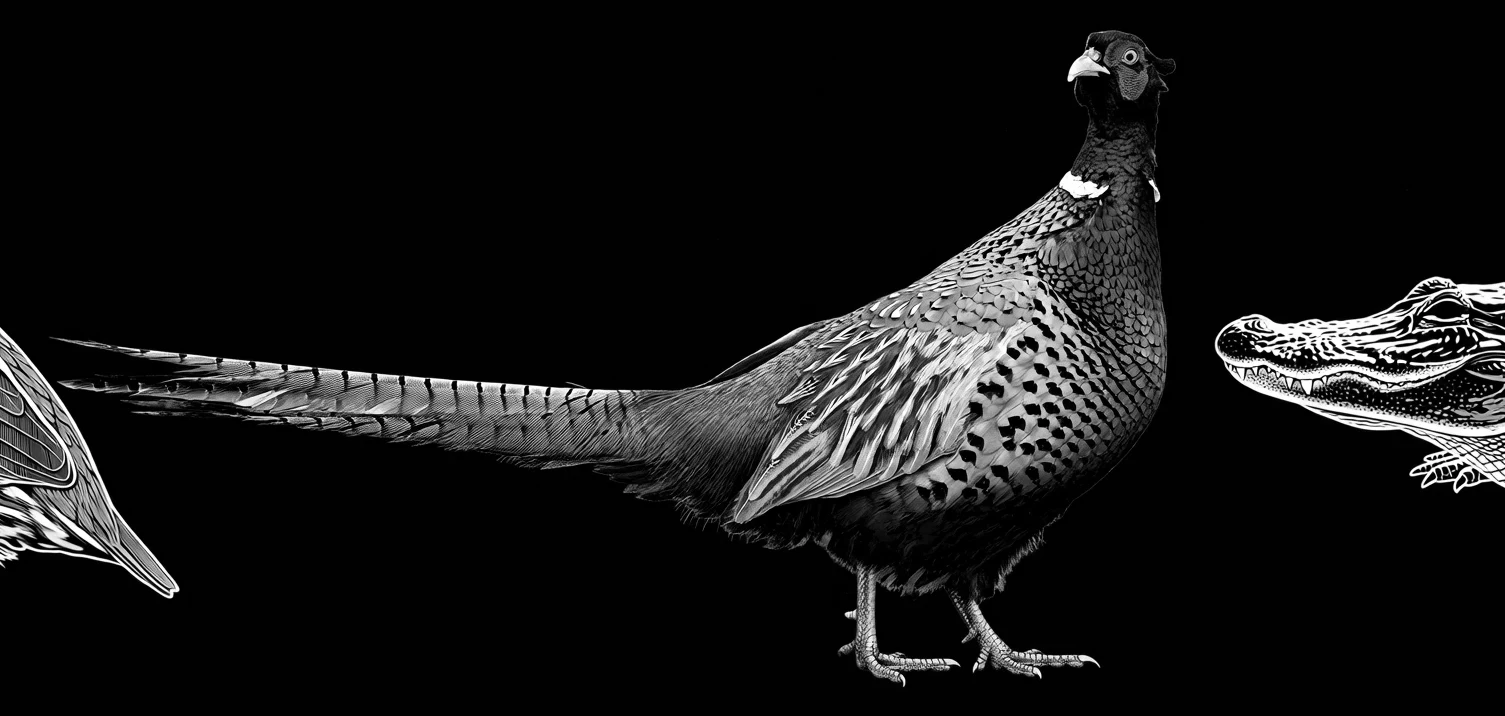
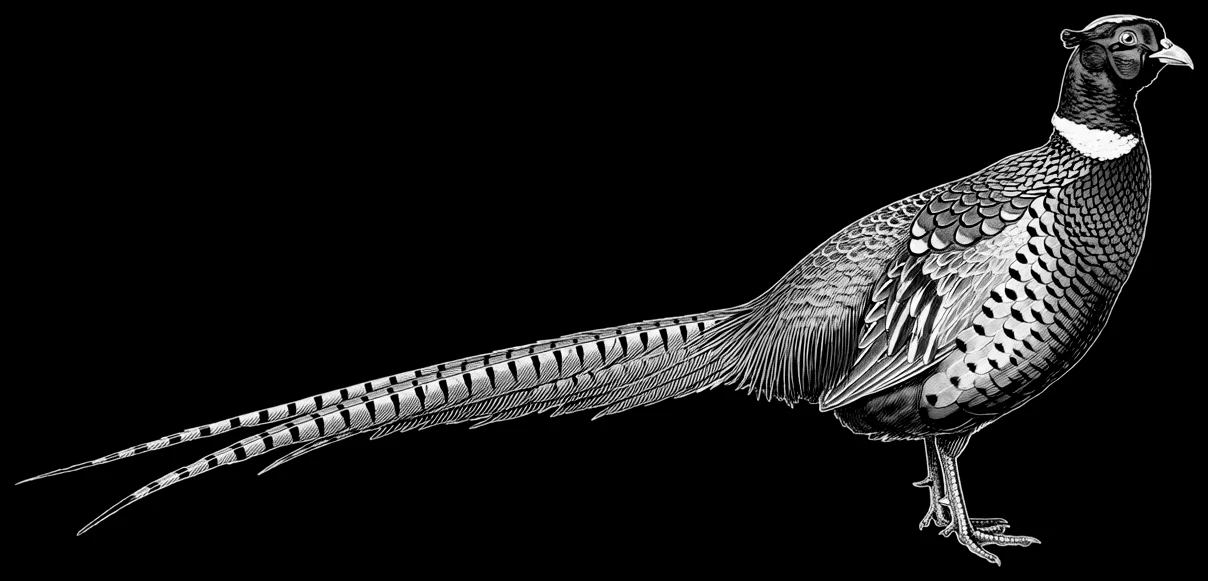
#64 + #65: modal scroll lock and border-box fix; head-first hero stencils for all targets, regenerated clean pheasant art, cleaned dove art, mirrored pheasant badge draw, badge stencil height cap — v0.6.1

diff --git a/src/main.ts b/src/main.ts
@@ -104,6 +104,18 @@ const STENCIL_BY_TARGET: Record<string, string> = {
   tarpon: "tarpon",
   walleye: "walleye",
 };
+// #65: the wide stencils (natural aspect at least 2.3). The stylesheet
+// sizes these down at the tablet tier so the fish sits inside the hero
+// with margin instead of spanning it edge to edge (see .hero-stencil
+// in styles.css). Keys are stencil file names, as in STENCIL_BY_TARGET.
+const WIDE_STENCILS = new Set([
+  "catfish",
+  "king-mackerel",
+  "rainbow-trout",
+  "striped-bass",
+  "tarpon",
+  "walleye",
+]);
 const stencilModules = import.meta.glob("./assets/stencils/stencil-*.webp", {
   eager: true,
   query: "?url",
@@ -445,6 +457,10 @@ const PROHIBIT_SVG = `<svg class="hero-prohibit" viewBox="0 0 100 100" aria-hidd
 function heroHtml(plan: DayPlan, key: string, target: TargetDef): string {
   const band = bandKey(plan);
   const stencil = plan.veto ? "" : stencilFor(target.id);
+  const stencilName = STENCIL_BY_TARGET[target.id] ?? "";
+  // #65: mark the wide stencils so the stylesheet can size them down
+  // at the tablet tier (see WIDE_STENCILS above).
+  const stencilWide = WIDE_STENCILS.has(stencilName) ? "1" : "0";
   const pill = plan.veto
     ? `<span class="hero-pill">⦻ ${esc(plan.veto)}</span>`
     : plan.slots.length
@@ -452,7 +468,7 @@ function heroHtml(plan: DayPlan, key: string, target: TargetDef): string {
       : `<span class="hero-pill">No window rated Okay or better</span>`;
   return `
   <section class="hero hero-${band}">
-    ${plan.veto ? PROHIBIT_SVG : stencil ? `<img class="hero-stencil" data-stencil="${esc(STENCIL_BY_TARGET[target.id] ?? "")}" src="${stencil}" alt="" aria-hidden="true" />` : ""}
+    ${plan.veto ? PROHIBIT_SVG : stencil ? `<img class="hero-stencil" data-stencil="${esc(stencilName)}" data-wide="${stencilWide}" src="${stencil}" alt="" aria-hidden="true" />` : ""}
     <div class="hero-main">
       <div class="hero-band">${esc(bandWord(plan))}</div>
       <div class="hero-when">${esc(fmtDay(key))} · ${esc(locationShortName())}</div>
@@ -2043,6 +2059,24 @@ function openModal(id: string): void {
   $(`#${id}`).hidden = false;
 }
 
+/* #64: while any modal is open, the page behind it must not scroll
+   (Wade saw double vertical scrollbars — the window's and the modal
+   backdrop's). Every modal is a .modal-backdrop whose visibility is
+   its `hidden` property, and that property is toggled from many
+   places (openModal, the day detail, the map, the close buttons,
+   backdrop clicks, Esc) — so instead of touching every toggle site,
+   the wiring at startup watches the backdrops' `hidden` attribute
+   and keeps a `modal-open` class on <body> in sync with whether any
+   modal is visible. styles.css turns the class into
+   `overflow: hidden` on the page, so all vertical scrolling happens
+   inside the modal itself. */
+function syncScrollLock(): void {
+  const anyOpen = [
+    ...document.querySelectorAll<HTMLElement>(".modal-backdrop"),
+  ].some((bd) => !bd.hidden);
+  document.body.classList.toggle("modal-open", anyOpen);
+}
+
 // ------------------------------------------------- About (item #18)
 // Disclaimer wording settled with Wade on 2026-11-12 (Option B + the
 // Option C safety sentence) — verbatim, do not paraphrase.
@@ -2430,6 +2464,15 @@ window.addEventListener("DOMContentLoaded", async () => {
       else bd.hidden = true;
     }),
   );
+  // #64: keep the page scroll lock in sync with modal visibility
+  // (see syncScrollLock above).
+  document.querySelectorAll<HTMLElement>(".modal-backdrop").forEach((bd) =>
+    new MutationObserver(syncScrollLock).observe(bd, {
+      attributes: true,
+      attributeFilter: ["hidden"],
+    }),
+  );
+  syncScrollLock();
 
   // Escape layering: info menu → map (modal Esc cancels everything,
   // decided 2026-11-12) → pick list.
@@ -2520,7 +2563,7 @@ window.addEventListener("DOMContentLoaded", async () => {
 
   // Rust app-info command (replaces the foundation's greet example).
   // The version lives in the About modal only (#27 removed the footer).
-  let versionLabel = "Zero Light 0.6.0";
+  let versionLabel = "Zero Light 0.6.1";
   try {
     versionLabel = await invoke<string>("app_info");
     // #47/#48: learn the hosting OS once; null stays for the web build.

diff --git a/src/styles.css b/src/styles.css
@@ -369,9 +369,24 @@ button:hover { border-color: var(--accent); }
 .hero-fair { background: #bc8400; }
 .hero-poor { background: #607d8b; }
 .hero-dontgo { background: #b3261e; }
+/* #65: head-first placement (Wade, 2026-11-19). Every stencil's head
+   is at the artwork's left edge (the pheasant is the one exception —
+   see its rule below), so the stencil is pinned by its HEAD end, at
+   left 16%, and the tail is what bleeds off the hero's right edge.
+   The old rule pinned the tail end (right: -34px), which cut the head
+   off on any screen narrower than the artwork. Height only — the
+   width follows the artwork's own aspect, never distorted. */
 .hero-stencil {
-  position: absolute; right: -34px; top: -24px; height: 228px;
+  position: absolute; left: 16%; right: auto; top: -14px; bottom: auto; height: 200px;
   mix-blend-mode: screen; opacity: 0.3; pointer-events: none;
+}
+/* #65: the pheasant faces right — its head is at the artwork's right
+   edge — so its hero pins the head end on the right, with margin, at
+   a size that keeps the whole bird inside the hero (proven at 380,
+   320 and 280px hero widths in the #65 mockups). Because the head end
+   is the anchored end, a narrower hero can only ever take the tail. */
+.hero-stencil[data-stencil="pheasant"] {
+  left: auto; right: 10px; top: 12px; height: 158px;
 }
 /* The approved turkey art keeps faint color on the head; production
    desaturates it so the ghost reads as pure engraving. */
@@ -519,6 +534,20 @@ button:hover { border-color: var(--accent); }
   max-width: 620px; width: 100%; box-shadow: 0 10px 34px rgba(0, 0, 0, 0.3);
   text-align: left;
 }
+/* #64: while any modal is open the page behind it must not scroll —
+   Wade saw double vertical scrollbars (the window's and the modal
+   backdrop's). main.ts keeps this class on <body> in sync with modal
+   visibility; all vertical scrolling then happens inside the modal.
+   Border-box: .modal-card is width:100% PLUS padding, which under
+   the default content-box made the card wider than its container —
+   and inside Settings, the Targets filter (width:100% plus padding)
+   overflowed its section the same way, growing a horizontal
+   scrollbar in the expanded Targets section. width now means the
+   full box, padding included, for modal cards and everything in
+   the Settings card. */
+body.modal-open { overflow: hidden; }
+.modal-card { box-sizing: border-box; }
+.settings-card, .settings-card *, .settings-card *::before, .settings-card *::after { box-sizing: border-box; }
 .modal-head { display: flex; justify-content: space-between; align-items: center; }
 .modal-head .icon-btn { font-size: 1.05em; line-height: 1; }
 /* #44: the day-detail action row now sits under the verdict (and the
@@ -601,6 +630,11 @@ table.factors td.dots { color: var(--accent); letter-spacing: 0.12em; white-spac
   .tile-k { font-size: 0.74em; font-weight: 600; text-transform: uppercase; letter-spacing: 0.05em; color: var(--muted); }
   .tile-v { font-size: 1.04em; font-weight: 700; margin-top: 3px; }
   .hero-band { font-size: 34px; }
+  /* #65: the widest stencils (data-wide — aspect at least 2.3: catfish,
+     king mackerel, rainbow trout, striped bass, tarpon, walleye) size
+     down at this tier so the fish sits inside the hero with margin
+     instead of spanning it edge to edge. */
+  .hero-stencil[data-wide="1"] { height: 160px; }
 }
 
 @media (min-width: 52.5em) {
@@ -612,7 +646,8 @@ table.factors td.dots { color: var(--accent); letter-spacing: 0.12em; white-spac
   .db-band { display: block; }
   .hero { padding: 22px; }
   .hero-band { font-size: 36px; }
-  .hero-stencil { height: 215px; right: -10px; top: auto; bottom: -26px; }
+  .hero-stencil { height: 215px; }
+  .hero-stencil[data-stencil="pheasant"] { height: 190px; right: 14px; top: 10px; }
 }
 
 @media (min-width: 75em) {

diff --git a/src/badges.ts b/src/badges.ts
@@ -409,12 +409,36 @@ async function drawStencil(
   // (which sets a height and lets the width follow).
   const aspect = img.naturalWidth / img.naturalHeight;
   if (!aspect || !isFinite(aspect)) return;
-  const w = geo.w * 0.98;
-  const h = w / aspect;
+  let w = geo.w * 0.98;
+  let h = w / aspect;
+  // #65: cap the height at the canvas space below the draw top, so a
+  // tall stencil cannot run off the bottom of the badge — on Android
+  // badges the dove's tail tip and the quail's feet used to fall
+  // ~23–31px past the edge. When the cap bites, the width follows the
+  // aspect, and the usual anchor formula applies to the new width.
+  const maxH = geo.h - (geo.top - 30);
+  if (h > maxH) {
+    h = maxH;
+    w = h * aspect;
+  }
+  const drawX = geo.w - w * 0.82;
+  const drawY = geo.top - 30;
   ctx.save();
   ctx.globalAlpha = alpha;
   ctx.globalCompositeOperation = "screen";
-  ctx.drawImage(img, geo.w - w * 0.82, geo.top - 30, w, h);
+  // #65: the pheasant is the one right-facing stencil — its head is
+  // at the artwork's right edge, which is the end this draw lets
+  // bleed off the canvas, so its badge showed no head at all. Mirror
+  // its draw so the head lands on-canvas in the same place as every
+  // other target's. (An engraving ghost carries no text, so a
+  // mirrored pheasant reads exactly like the original.)
+  if (targetId === "pheasant") {
+    ctx.translate(drawX + w, drawY);
+    ctx.scale(-1, 1);
+    ctx.drawImage(img, 0, 0, w, h);
+  } else {
+    ctx.drawImage(img, drawX, drawY, w, h);
+  }
   ctx.restore();
 }
 
